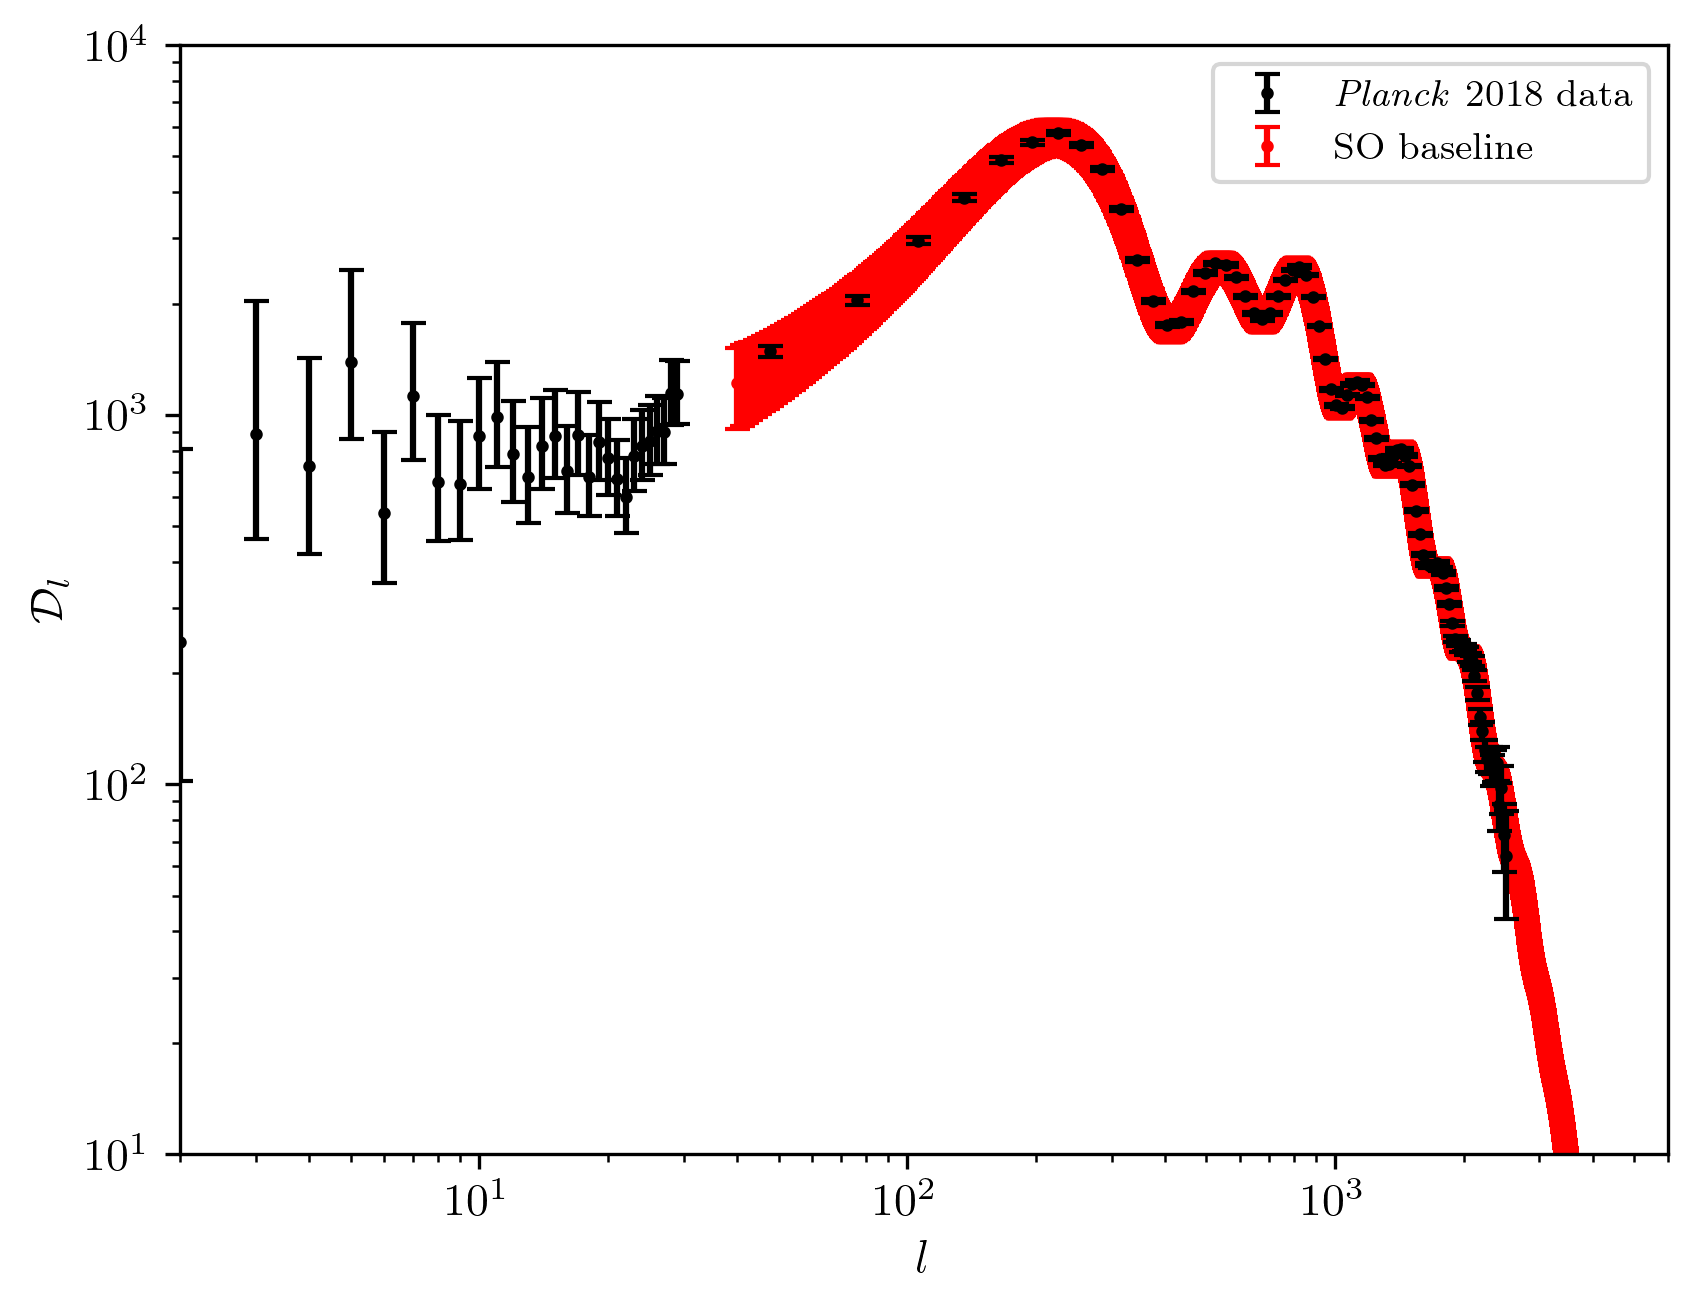
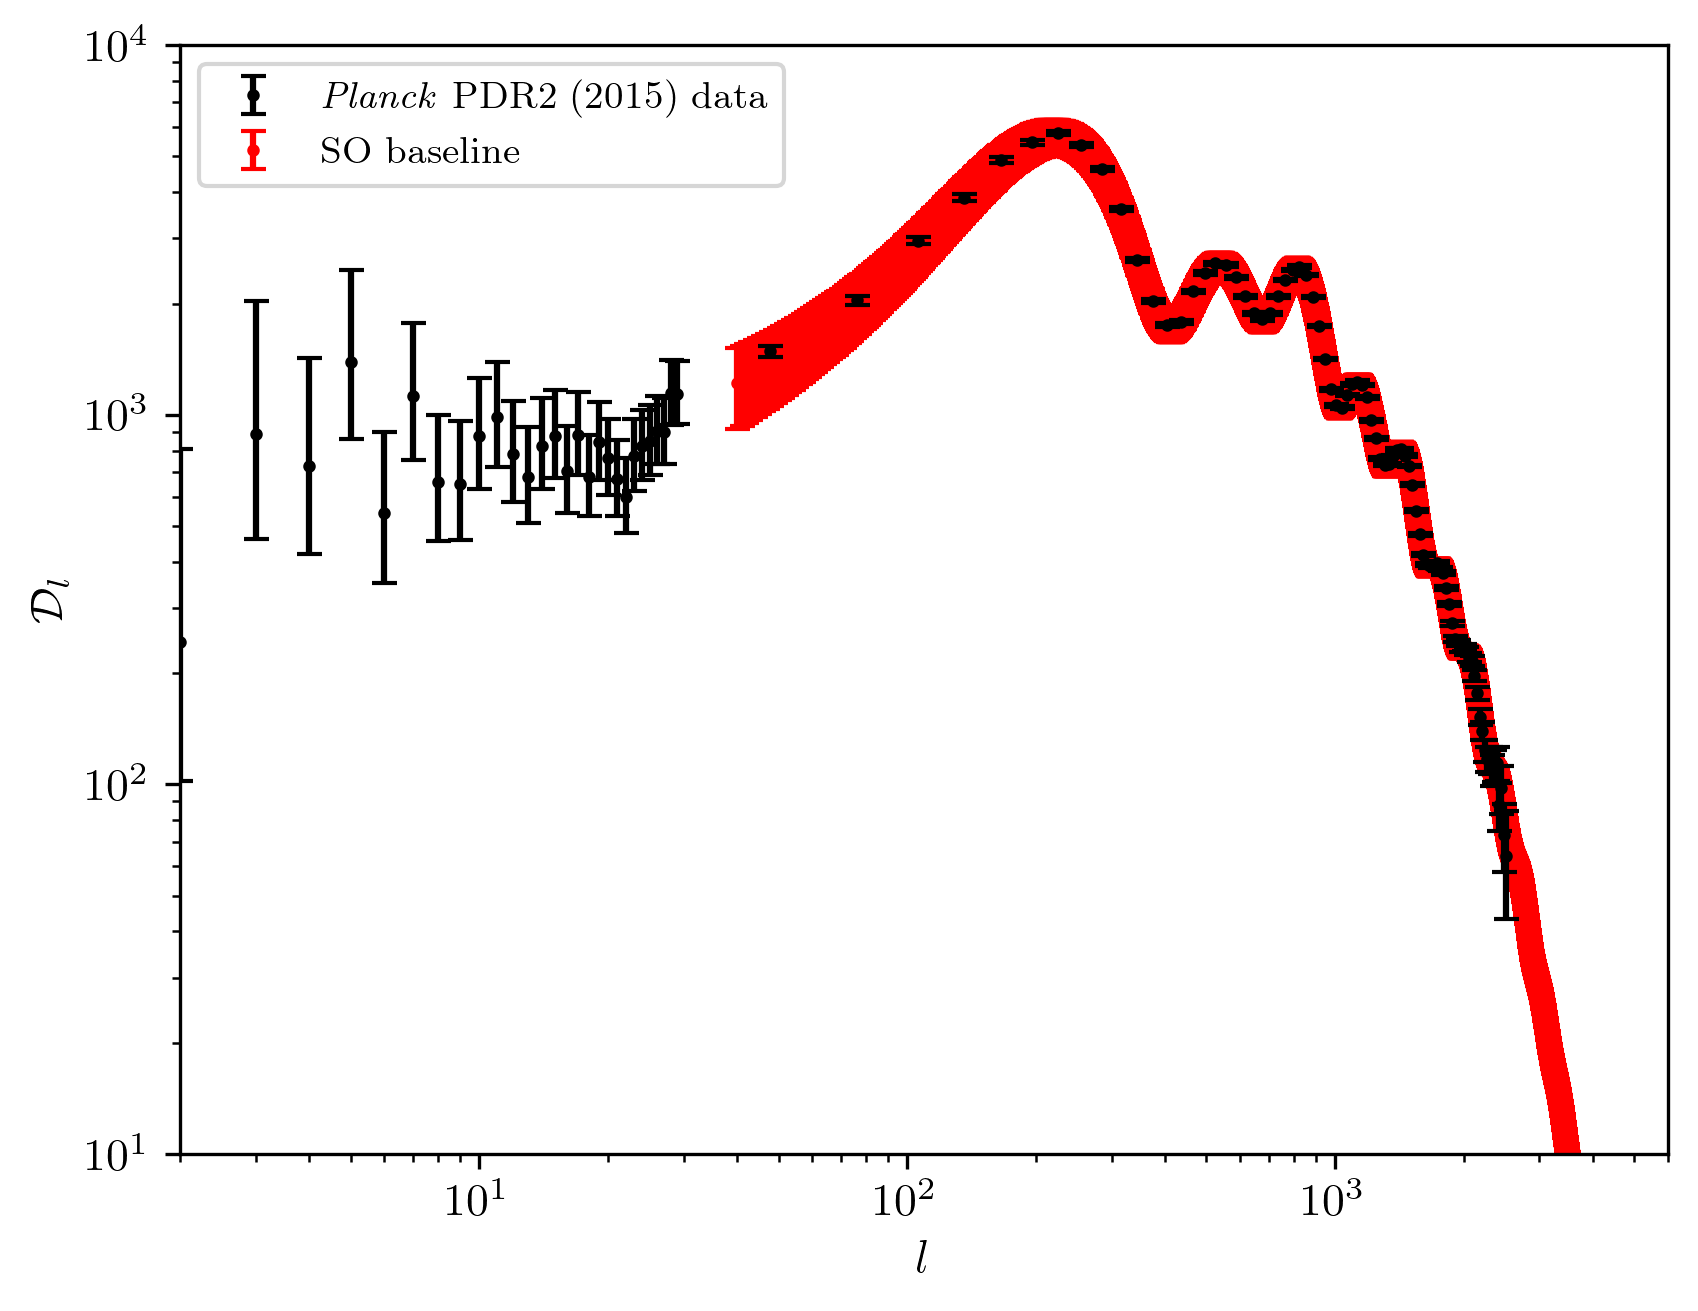
pdr2 naming corrected

diff --git a/scripts/plot_models_data.py b/scripts/plot_models_data.py
@@ -39,9 +39,10 @@ for H0_plot in H0_list:
     else:
         plt.plot(ells, cl_tt, label=f'$H_0 = {H0_plot:.1f}$')
 
+
 planck_data = Table.read('data/COM_PowerSpect_CMB_R2.02.fits', hdu=7)
 planck_data_lowell = Table.read('data/COM_PowerSpect_CMB_R2.02.fits', hdu=1)
-plt.errorbar(planck_data['ELL'], planck_data['D_ELL'], yerr=planck_data['ERR'], fmt='o', markersize=2, capsize=3, color='k', label='\emph{Planck} 2018 data')
+plt.errorbar(planck_data['ELL'], planck_data['D_ELL'], yerr=planck_data['ERR'], fmt='o', markersize=2, capsize=3, color='k', label='\emph{Planck} PDR2 (2015) data')
 plt.errorbar(planck_data_lowell['ELL'], planck_data_lowell['D_ELL'], yerr=[planck_data_lowell['ERRDOWN'], planck_data_lowell['ERRUP']], fmt='o', markersize=2, capsize=3, label=None, color='k')
 
 plt.legend(fontsize='small')
@@ -49,14 +50,14 @@ plt.xscale('log')
 plt.yscale('log')
 plt.xlabel('$l$')
 plt.ylabel('$\mathcal{D}_l$')
-plt.xlim([2,6000])
-plt.ylim([1.e1, 1.e4])
+plt.xlim([2,3000])
+plt.ylim([3.e1, 1.e4])
 
 plt.savefig('./plots/cmb_example.png', dpi=300, bbox_inches='tight')
 
 plt.clf()
 
-plt.errorbar(planck_data['ELL'], planck_data['D_ELL'], yerr=planck_data['ERR'], fmt='o', markersize=2, capsize=3, color='k', label='\emph{Planck} 2018 data')
+plt.errorbar(planck_data['ELL'], planck_data['D_ELL'], yerr=planck_data['ERR'], fmt='o', markersize=2, capsize=3, color='k', label='\emph{Planck} PDR2 (2015) data')
 plt.errorbar(planck_data_lowell['ELL'], planck_data_lowell['D_ELL'], yerr=[planck_data_lowell['ERRDOWN'], planck_data_lowell['ERRUP']], fmt='o', markersize=2, capsize=3, label=None, color='k')
 
 plt.legend(fontsize='small')
